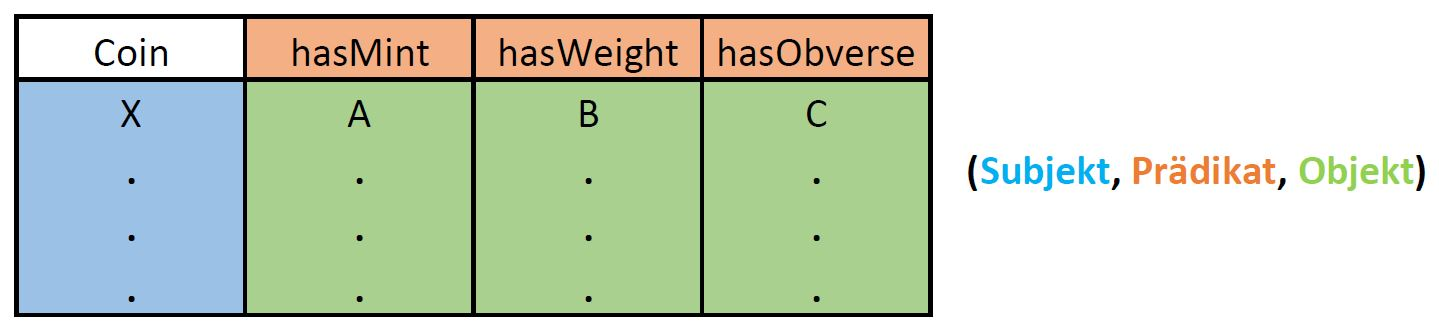
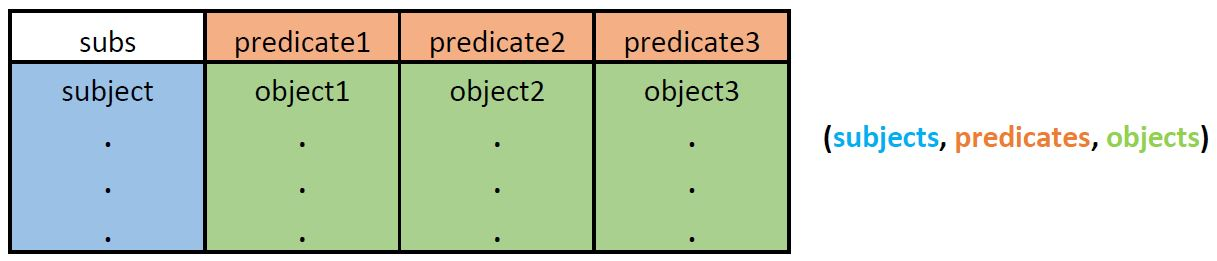
current docs

diff --git a/documentation/INPUT_FORMAT.md b/documentation/INPUT_FORMAT.md
@@ -1,15 +1,15 @@
 INPUT FORMAT
 ============
-Die Hauptaufgabe des RDFiers ist es, aus einem Datenset in Form einer csv-Datei, einen RDF-Graph zu bauen. Da komplexere Konzepte in RDF-Graphen nicht ohne weiteres aus einer csv-Tabelle gelesen werden können, wird hier beschrieben wie diese in der Eingabe codiert werden können.
+The main task of the RDFier is to build an RDF graph from a data set in the form of a csv file. Since more complex concepts in RDF graphs cannot be read easily from a csv table, here we describe how to encode them in the input.
 
-Grundstruktur
--------------
-Die Grundstruktur der Eingabe ist folgende:
+Basic Structure
+---------------
+The basic structure of the input is as follows:
 <img src="basic_structure.JPG" alt="basic_structure" width="1000"/>
 
-Somit bezeichnet üblicherweise die erste Spalte Subjekte und die darauf folgenden Spalten Objekte mit dem jeweiligen Prädikat im Spaltenkopf. Aus dem Schaubild enstehen somit die Kanten (ex:subject1, ex:predicate1, ex:object1), (ex:subject1, ex:predicate2, ex:object2) und (ex:subject1, ex:predicate3, ex:object3).
+Thus, usually the first column denotes subjects and the subsequent columns denote objects with the respective predicate in the column header. The edges (subject, predicate1, object1), (subject, predicate2, object2) and (subject, predicate3, object3) are created from the diagram.
 
-Manche Namensräume müssen nicht selbst eingefügt werden, sondern stehen bereits zur Verfügung. Dazu gehören:
+Some namespaces do not need to be inserted themselves, but are already available. These include:
 |prefix  |namespace                                                               |
 |:---    |:---                                                                    |
 |amt     |http://academic-meta-tool.xyz/vocab#                                    |
@@ -30,17 +30,17 @@ Manche Namensräume müssen nicht selbst eingefügt werden, sondern stehen berei
 |un      |http://www.w3.org/2005/Incubator/urw3/XGR-urw3-20080331/Uncertainty.owl#|
 |xsd     |http://www.w3.org/2001/XMLSchema#                                       |
 
-Weitere Namensräume lassen sich mit einer csv-Tabelle mit der gleichen Struktur hinzufügen oder die oben definierten überschreiben.
+Additional namespaces can be added using a csv table with the same structure, or overriding those defined above.
 
 URI's, literals and blank nodes
 -------------------------------
-RDF-Graphen besitzt Ressourcen in Form von URI's, Literalen und leeren Knoten. Damit ein Zelleneintrag richtig interpretiert wird, muss zusätzlich zu dem Wert auch der Typ der Ressource angegeben werden. Die folgenden Einträge sind möglich, wobei die in geschwungenen Klammern `{}` Werte Platzhalter sind.
- * `<{URI}>^^uri` zum Angeben einer vollständigen URI, wie z.B.: "<http://nomisma.org/id/rome>^^uri".
- * `{prefix}:{label}^^uri` zum Angeben einer abgekürzten URI, wie z.B.: "nm:rome^^uri".
- * `{value}` bzw. `{value}^^xsd:string` zum Angeben eines Literals, wie z.B. "2023".
- * `{name}^^blank` zum Angeben eines leeren Knotens. Der Wert von *name* hat dabei keine Bedeutung und wird intern verworfen.
+RDF graphs has resources in the form of URI's, literals and empty nodes. In order for a cell entry to be interpreted correctly, the type of the resource must be specified in addition to the value. The following entries are possible, where the values in curly brackets `{}` are placeholders.
+ * `<{URI}>^^uri` to specify a full URI, such as: "<http://nomisma.org/id/rome>^^uri".
+ * `{prefix}:{label}^^uri` to specify a shorten URI, such as: "nm:rome^^uri".
+ * `{value}` bzw. `{value}^^xsd:string` to specify a literal, such as: "2023".
+ * `{name}^^blank` to specify a blank node. The value *name* is only a placeholder and will be ignored by the module.
 
-Somit wird der Marker "^^" dazu verwendet den Type der Ressource anzugeben. Prädikate müssen vom Typ URI sein, weshalb der Marker im header keinen Einfluss auf den Typ des Prädikats hat. Stattdessen kann der Marker an dieser Stelle als Typzuweisung genutzt werden für alle Einträge der Spalte ohne eigenen Typ.
+Thus, the "^^" marker is used to indicate the type of the resource. Predicates must be of type URI, so the marker in the header has no influence on the type of the predicate. Instead, the marker at this point can be used as a type assignment for all entries in the column without their own type.
 
 **Example**:
 |coins^^uri|nmo:hasMaterial^^uri|
@@ -49,21 +49,21 @@ Somit wird der Marker "^^" dazu verwendet den Type der Ressource anzugeben. Prä
 |afe:13    |kryptonite^^blank   |
 |afe:29    |nm:ar               |
 
-Das Stichwort `coin` ist im Spaltenkopf der ersten Spalte mit den Subjekten und definiert somit kein Prädikat, es wird vom Programm verworfen und hat keine Auswirkungen.
-Die beiden Marker `^^uri` weisen allen Einträgen in ihren Spalten den Typ uri zu, wenn diese keinen eigenen Typ haben. Daher werden Einträge wie `nm:ae` als URI gelesen.
-Da es für Kryptonit keine URI im Namensraum *nm* gibt, wird diese durch einen leeren Knoten realisiert und `^^blank` als Marker genutzt. Der Eintrag `kryptonite` hat dabei keinen Einfluss und wird vom Programm verworfen.
+The marker `coin` is in the column header of the first column with the subjects and thus does not define a predicate, it is discarded by the program and has no effect.
+The two markers `^uri` assign the type uri to all entries in their columns if they have no type of their own. Therefore entries like `nm:ae` are read as URI.
+Since there is no URI for kryptonite in the *nm* namespace, this is realized by an empty node and `^blank` is used as a marker. The entry `kryptonite` has no influence and is discarded by the program.
 
 
-Datentypen und Sprachen
+Datatypes and Languages
 -----------------------
-Zu Literalen lassen sich in RDF-Graphen Datentypen und Sprachen zugeordnen. Daher braucht es eine Möglichkeit diese in der Eingabe zu kennzeichnen.
-Hier kann die gleiche Syntax genutzt werden wie im Turtle-Format:
- * `literal^^{URI_of_datatype}` zum Angeben eines Datentyps.
- * `literal@{country ISO code}` zum Angeben einer Sprache.
+Datatypes and languages can be assigned to literals in RDF graphs. Therefore, there needs to be a way to mark them in the input.
+Here the same syntax can be used as in the Turtle format:
+ * `literal^^{URI_of_datatype}` to specify a datatype.
+ * `literal@{country ISO code}` to specify a language.
 
-Da nur Literale Datentypen und Sprachen besitzen können, wird keine zusätzliche Typ Markierung benötigt. Somit werden Einträge der Form *value^^URI* immer als Literal mit Datentyp interpretiert. Die URI kann dabei wie oben bereits beschrieben durch eine vollständige URI `<{URI}>` oder eine abgekürzte URI `{prefix}:{label}` angegeben werden.
-Eine Sprache lässt sich durch eine zweistellige ISO Kennzeichnung angeben. Eine Liste mit allen Länder Codes lässt sich [here](https://en.wikipedia.org/wiki/ISO_3166-1#Current_codes) finden.
-Ähnlich zu den Ressourcen Typen, lassen sich auch diese Marker in den Spaltenkopf verschieben, um allen Einträgen ohne Ressourcentyp, Datentyp und Sprachen einen Wert zuzuordnen.
+Since only literals can have data types and languages, no additional type marking is needed. Thus entries of the form *value^^URI* are always interpreted as literal with datatype. The URI can be specified by a full URI `<{URI}>` or an abbreviated URI `{prefix}:{label}` as described above.
+A language can be specified by a two-character ISO identifier. A list of all country codes can be found [here](https://en.wikipedia.org/wiki/ISO_3166-1#Current_codes).
+Similar to resource types, these markers can be moved to the column header to assign a value to all entries without resource type, data type, or languages.
 
 **Example**:
 |coins^^uri|nmo:hasMaterial^^uri|nmo:hasWeight^^xsd:decimal|
@@ -73,17 +73,17 @@ Eine Sprache lässt sich durch eine zweistellige ISO Kennzeichnung angeben. Eine
 |afe:29    |nm:ar               |1.16                      |
 
 
-Mehrfacheinträge
+Multiple Entries
 ----------------
-Häufig besitzen RDF-Aussagen das gleiche Subjekt-Prädikat-Paar. Für die csv Eingabe bedeutet das, dass sich beide Aussagen auf die selbe Zelle beziehen können.
-Aus diesem Grund lassen sich in die Zellen mit Objekten auch Mehrfacheinträge getrennt durch ein Semikolon `;` erstellen. So lässt sich leicht für das obige Beispiel der Text in einer zweiten Sprache angeben mit `too heavy to weigh@en; zu schwer zum wiegen@de`.
+Often RDF statements have the same subject-predicate pair. For the csv input, this means that both statements can refer to the same cell.
+For this reason, multiple entries can be created in the cells with objects separated by a semicolon `;`. Thus, for the above example, the text in a second language can easily be specified with `too heavy to weigh@en; zu schwer zum wiegen@de`.
 
-Verkettete Aussagen
--------------------
-Um auch Aussagen darstellen zu können wie "A ist mit B befreundet und B hat den Namen Luca", lässt sich die oben gezeigte Grundstruktur verändern.
-Durch den Marker `**{id}` am Ende des Spaltennamens lässt sich einer Spalte eine ID zuordnen und somit als Subjekt-Spalte markieren.
-Die ID darf dabei eine beliebige Zeichekette sein.
-Auf eine Subjekt-Spalte mit ID kann dann mit dem Marker `{id}__` (doppelter Unterstrich) am Anfang eines Spaltennamens referenziert werden, sodass die Spalte Objekte und das Prädikat zur referenzierten Subjekt-Spalte enthält. Für unser Beispiel sieht das wie Folgt aus:
+Nested Statements
+-----------------
+In order to be able to represent also statements like "A is friends with B and B has the name Luca", the basic structure shown above can be changed.
+With the marker `**{id}` at the end of the column name an ID can be assigned to a column and thus marked as a subject column.
+The ID may be any string.
+A subject column with ID can then be referenced with the marker `{id}__` (double underscore) at the beginning of a column name, so that the column contains objects and the predicate to the referenced subject column. For our example, this looks like the following:
 
 |coins^^uri|nmo:hasMaterial^^uri**1|nmo:hasWeight^^xsd:decimal|1__rdf:value               |
 |:---      |:---                   |:---                      |:---                       |
@@ -91,7 +91,7 @@ Auf eine Subjekt-Spalte mit ID kann dann mit dem Marker `{id}__` (doppelter Unte
 |afe:13    |kryptonite^^blank      |too heavy to weigh@en     |kryptonite@en; Kryptonit@de|
 |afe:29    |nm:ar                  |1.16                      |                           |
 
-Durch diese Veränderung wird die zweite Spalte nun zusätzlich als Subjekt-Spalte interpretiert und die vierte Spalte enthält die dazu gehörenden Objekte und das Prädikat. Dadurch entstehen zwei neue Kanten vom leeren Knoten ausgehende mit dem Prädikat `rdf:value` und den beiden Objekten `kryptonite` und `Kryptonit`.
-Durch die Zuweisung von ID 1 bleiben die ursprünglichen RDF-Aussagen bestehen.
+As a result of this change, the second column is now additionally interpreted as a subject column and the fourth column contains the objects and predicate belonging to it. This creates two new edges starting from the empty node with the predicate `rdf:value` and the two objects `kryptonite` and `kryptonite`.
+By assigning ID 1, the original RDF statements remain.
 
-Auch lässt sich eine Spalte, die auf eine andere Subjekt-Spalte referenziert wiederrum eine ID zuweisen, usw.
+Also, a column that references another subject column can be assigned an ID, and so on.

diff --git a/documentation/EINGABEFORMAT.md b/documentation/EINGABEFORMAT.md
@@ -1,0 +1,97 @@
+Eingabeformat
+=============
+Die Hauptaufgabe des RDFiers ist es, aus einem Datenset in Form einer csv-Datei, einen RDF-Graph zu bauen. Da komplexere Konzepte in RDF-Graphen nicht ohne weiteres aus einer csv-Tabelle gelesen werden können, wird hier beschrieben wie diese in der Eingabe codiert werden können.
+
+Grundstruktur
+-------------
+Die Grundstruktur der Eingabe ist folgende:
+<img src="basic_structure.JPG" alt="basic_structure" width="1000"/>
+
+Somit bezeichnet üblicherweise die erste Spalte Subjekte und die darauf folgenden Spalten Objekte mit dem jeweiligen Prädikat im Spaltenkopf. Aus dem Schaubild enstehen somit die RDF-Aussagen (subject, predicate1, object1), (subject, predicate2, object2) und (subject, predicate3, object3).
+
+Manche Namensräume müssen nicht selbst eingefügt werden, sondern stehen bereits zur Verfügung. Dazu gehören:
+|prefix  |namespace                                                               |
+|:---    |:---                                                                    |
+|amt     |http://academic-meta-tool.xyz/vocab#                                    |
+|bmo     |http://collection.britishmuseum.org/id/ontology/                        |
+|crm     |http://www.cidoc-crm.org/cidoc-crm/                                     |
+|crminf  |http://www.cidoc-crm.org/crminf/sites/default/files/CRMinf_v0.7_.rdfs#  |
+|dcterms |http://purl.org/dc/terms/                                               |
+|dcmitype|http://purl.org/dc/dcmitype/                                            |
+|edtfo   |http://periodo.github.io/edtf-ontology/edtfo.ttl#                       |
+|foaf    |http://xmlns.com/foaf/0.1/                                              |
+|geo     |http://www.w3.org/2003/01/geo/wgs84_pos#                                |
+|nm      |http://nomisma.org/id/                                                  |
+|nmo     |http://nomisma.org/ontology#                                            |
+|org     |http://www.w3.org/ns/org#                                               |
+|rdf     |http://www.w3.org/1999/02/22-rdf-syntax-ns#                             |
+|rdfs    |http://www.w3.org/2000/01/rdf-schema#                                   |
+|skos    |http://www.w3.org/2004/02/skos/core#                                    |
+|un      |http://www.w3.org/2005/Incubator/urw3/XGR-urw3-20080331/Uncertainty.owl#|
+|xsd     |http://www.w3.org/2001/XMLSchema#                                       |
+
+Weitere Namensräume lassen sich mit einer csv-Tabelle mit der gleichen Struktur hinzufügen oder die oben definierten überschreiben.
+
+URI's, Literale und leere Knoten
+--------------------------------
+RDF-Graphen besitzt Ressourcen in Form von URI's, Literalen und leeren Knoten. Damit ein Zelleneintrag richtig interpretiert wird, muss zusätzlich zu dem Wert auch der Typ der Ressource angegeben werden. Die folgenden Einträge sind möglich, wobei die in geschwungenen Klammern `{}` Werte Platzhalter sind.
+ * `<{URI}>^^uri` zum Angeben einer vollständigen URI, wie z.B.: "<http://nomisma.org/id/rome>^^uri".
+ * `{prefix}:{label}^^uri` zum Angeben einer abgekürzten URI, wie z.B.: "nm:rome^^uri".
+ * `{value}` bzw. `{value}^^xsd:string` zum Angeben eines Literals, wie z.B. "2023".
+ * `{name}^^blank` zum Angeben eines leeren Knotens. Der Wert von *name* hat dabei keine Bedeutung und wird intern verworfen.
+
+Somit wird der Marker "^^" dazu verwendet den Type der Ressource anzugeben. Prädikate müssen vom Typ URI sein, weshalb der Marker im header keinen Einfluss auf den Typ des Prädikats hat. Stattdessen kann der Marker an dieser Stelle als Typzuweisung genutzt werden für alle Einträge der Spalte ohne eigenen Typ.
+
+**Beispiel**:
+|coins^^uri|nmo:hasMaterial^^uri|
+|:---      |:---                |
+|afe:5     |nm:ae               |
+|afe:13    |kryptonite^^blank   |
+|afe:29    |nm:ar               |
+
+Das Stichwort `coin` ist im Spaltenkopf der ersten Spalte mit den Subjekten und definiert somit kein Prädikat, es wird vom Programm verworfen und hat keine Auswirkungen.
+Die beiden Marker `^^uri` weisen allen Einträgen in ihren Spalten den Typ uri zu, wenn diese keinen eigenen Typ haben. Daher werden Einträge wie `nm:ae` als URI gelesen.
+Da es für Kryptonit keine URI im Namensraum *nm* gibt, wird diese durch einen leeren Knoten realisiert und `^^blank` als Marker genutzt. Der Eintrag `kryptonite` hat dabei keinen Einfluss und wird vom Programm verworfen.
+
+
+Datentypen und Sprachen
+-----------------------
+Zu Literalen lassen sich in RDF-Graphen Datentypen und Sprachen zugeordnen. Daher braucht es eine Möglichkeit diese in der Eingabe zu kennzeichnen.
+Hier kann die gleiche Syntax genutzt werden wie im Turtle-Format:
+ * `literal^^{URI_of_datatype}` zum Angeben eines Datentyps.
+ * `literal@{country ISO code}` zum Angeben einer Sprache.
+
+Da nur Literale Datentypen und Sprachen besitzen können, wird keine zusätzliche Typ Markierung benötigt. Somit werden Einträge der Form *value^^URI* immer als Literal mit Datentyp interpretiert. Die URI kann dabei wie oben bereits beschrieben durch eine vollständige URI `<{URI}>` oder eine abgekürzte URI `{prefix}:{label}` angegeben werden.
+Eine Sprache lässt sich durch eine zweistellige ISO Kennzeichnung angeben. Eine Liste mit allen Länder Codes lässt sich [hier](https://en.wikipedia.org/wiki/ISO_3166-1#Current_codes) finden.
+Ähnlich zu den Ressourcen Typen, lassen sich auch diese Marker in den Spaltenkopf verschieben, um allen Einträgen ohne Ressourcentyp, Datentyp und Sprachen einen Wert zuzuordnen.
+
+**Beispiel**:
+|coins^^uri|nmo:hasMaterial^^uri|nmo:hasWeight^^xsd:decimal|
+|:---      |:---                |:---                      |
+|afe:5     |nm:ae               |5.24                      |
+|afe:13    |kryptonite^^blank   |too heavy to weigh@en     |
+|afe:29    |nm:ar               |1.16                      |
+
+
+Mehrfacheinträge
+----------------
+Häufig besitzen RDF-Aussagen das gleiche Subjekt-Prädikat-Paar. Für die csv Eingabe bedeutet das, dass sich beide Aussagen auf die selbe Zelle beziehen können.
+Aus diesem Grund lassen sich in die Zellen mit Objekten auch Mehrfacheinträge getrennt durch ein Semikolon `;` erstellen. So lässt sich leicht für das obige Beispiel der Text in einer zweiten Sprache angeben mit `too heavy to weigh@en; zu schwer zum wiegen@de`.
+
+Verkettete Aussagen
+-------------------
+Um auch Aussagen darstellen zu können wie "A ist mit B befreundet und B hat den Namen Luca", lässt sich die oben gezeigte Grundstruktur verändern.
+Durch den Marker `**{id}` am Ende des Spaltennamens lässt sich einer Spalte eine ID zuordnen und somit als Subjekt-Spalte markieren.
+Die ID darf dabei eine beliebige Zeichekette sein.
+Auf eine Subjekt-Spalte mit ID kann dann mit dem Marker `{id}__` (doppelter Unterstrich) am Anfang eines Spaltennamens referenziert werden, sodass die Spalte Objekte und das Prädikat zur referenzierten Subjekt-Spalte enthält. Für unser Beispiel sieht das wie Folgt aus:
+
+|coins^^uri|nmo:hasMaterial^^uri**1|nmo:hasWeight^^xsd:decimal|1__rdf:value               |
+|:---      |:---                   |:---                      |:---                       |
+|afe:5     |nm:ae                  |5.24                      |                           |
+|afe:13    |kryptonite^^blank      |too heavy to weigh@en     |kryptonite@en; Kryptonit@de|
+|afe:29    |nm:ar                  |1.16                      |                           |
+
+Durch diese Veränderung wird die zweite Spalte nun zusätzlich als Subjekt-Spalte interpretiert und die vierte Spalte enthält die dazu gehörenden Objekte und das Prädikat. Dadurch entstehen zwei neue Kanten vom leeren Knoten ausgehende mit dem Prädikat `rdf:value` und den beiden Objekten `kryptonite` und `Kryptonit`.
+Durch die Zuweisung von ID 1 bleiben die ursprünglichen RDF-Aussagen bestehen.
+
+Auch lässt sich eine Spalte, die auf eine andere Subjekt-Spalte referenziert wiederrum eine ID zuweisen, usw.
